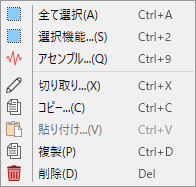
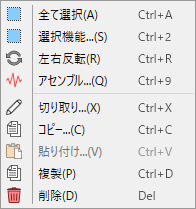
v0.7.39

diff --git a/docs/history.html b/docs/history.html
@@ -10,6 +10,49 @@
         <div class="content">
             <ul>
                 <li>
+                    <details id="0_7_39">
+                        <summary class="a-like">Version 0.7.39 (2025/10/11)</summary>
+                        <ul>
+                            <li>
+                                機能追加
+                                <ul>
+                                    <li>
+                                        <a href="bms.html">BMSモード</a>において、選択範囲の左右反転機能を追加しました。
+                                        <ul>
+                                            <li>
+                                                選択範囲に含まれる音声レーン(演奏レーン+BGMレーン)のノートの配置を左右反転します。
+                                            </li>
+                                            <li>
+                                                「選択中ノートがある左端のレーン」と「選択中ノートがある右端のレーン」の間が左右反転します。
+                                            </li>
+                                        </ul>
+                                    </li>
+                                </ul>
+                            </li>
+                            <li>
+                                仕様変更
+                                <ul>
+                                    <li>
+                                        <a href="bms_assemble.html">BMSモード/アセンブル</a>などファイルを出力する機能において、対象のファイルへのアクセスが拒否された場合にアプリが落ちないようにしました。
+                                    </li>
+                                    <li>
+                                        <a href="bms_definition.html">BMSモード/定義リスト</a>の<span class="script">#BMP</span>定義で選択可能なファイル形式に<span class="script">.wmv</span>を追加しました。
+                                    </li>
+                                </ul>
+                            </li>
+                            <li>
+                                不具合修正
+                                <ul>
+                                    <li>
+                                        特定形式の<span class="script">.wav</span>ファイルを読み込もうとするとアプリが強制終了する不具合を修正しました。
+                                    </li>
+                                </ul>
+                            </li>
+                        </ul>
+                        <br>
+                    </details>
+                </li>
+                <li>
                     <details id="0_7_38">
                         <summary class="a-like">Version 0.7.38 (2025/09/28)</summary>
                         <ul>

diff --git a/docs/bms.html b/docs/bms.html
@@ -301,6 +301,14 @@
                                                 <img src="img/icons/Selection.png" class="icon16"><b>選択機能</b>: <a href="bms_selection.html">選択機能ウィンドウ</a>を開きます。
                                             </li>
                                             <li>
+                                                <img src="img/icons/Update_Mono.png" class="icon16"><b>左右反転</b>: 選択範囲に含まれる音声レーン(演奏レーン+BGMレーン)のノートの配置を左右反転します。
+                                                <ul>
+                                                    <li>
+                                                        「選択中ノートがある左端のレーン」と「選択中ノートがある右端のレーン」の間が左右反転します。
+                                                    </li>
+                                                </ul>
+                                            </li>
+                                            <li>
                                                 <img src="img/icons/Wave.png" class="icon16"><b>アセンブル</b>: <a href="bms_assemble.html">アセンブルウィンドウ</a>を開きます。
                                             </li>
                                             <li>

diff --git a/docs/midi_pack.html b/docs/midi_pack.html
@@ -13,6 +13,14 @@
                 <p>
                     選択中のトラックのノートを整理し、<a href="midi_slice.html">スライスマーカー配置</a>用のMIDIファイルを書き出す機能です。
                 </p>
+                <ul>
+                    <li>
+                        この機能で出力されるMIDIは<b>DAWに読み込ませてスライス用音声データを作成する</b>ためのものであり、<b style="color:#f44">このアプリでは使用しません</b>。
+                    </li>
+                    <li>
+                        <a href="midi_bmsExport.html">BMS出力</a>を行う際には、MIDI整理の元となるファイルをそのまま利用します。<b>整理後のMIDIファイルを改めて読み込む必要はありません</b>。
+                    </li>
+                </ul>
             </div>
             <div class="stack">
                 <h2>説明</h2>

diff --git a/docs/midi_bmsExport.html b/docs/midi_bmsExport.html
@@ -11,7 +11,7 @@
             <div class="stack">
                 <h1>BMS出力</h1>
                 <p>
-                    <a href="midi_pack.html">整理済みMIDIのデータ</a>と<a href="midi_slice.html">スライスされた音声データ</a>を使ってBMSファイルを作成する機能です。
+                    <a href="midi_pack.html">MIDI整理の設定</a>に従ってBMSファイルを作成する機能です。
                 </p>
                 <ul>
                     <li>

diff --git a/docs/index.html b/docs/index.html
@@ -11,7 +11,7 @@
             <div class="stack">
                 <a href="https://github.com/Kuroki-Narumi/BmsMaker3-Manual/releases" target="_blank">
                     <img src="img/logo.png" style="max-width: 100%;"/><br>
-                    Version 0.7.38<br>
+                    Version 0.7.39<br>
                 </a>
                 オールインワン型BMS制作補助ツール<br>
             </div>
